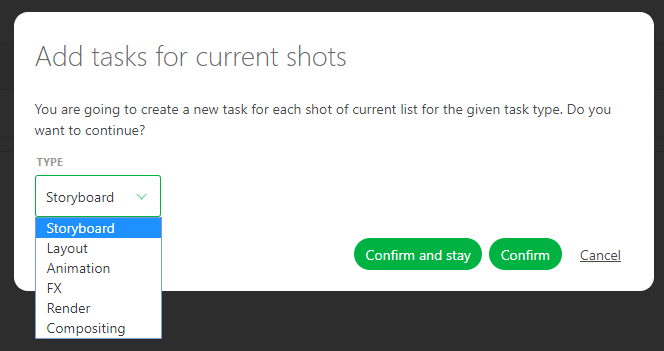
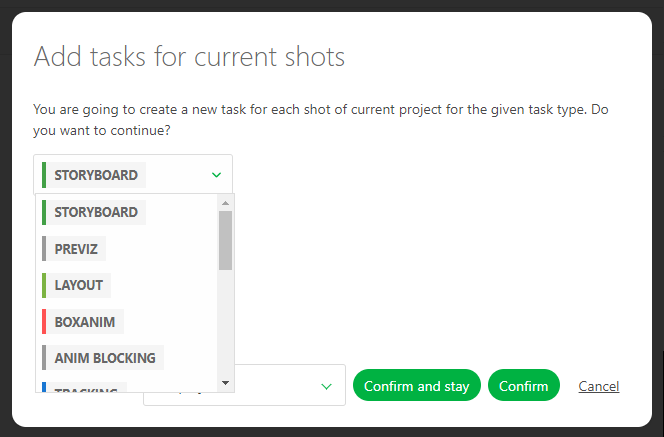
getting started task filtered

diff --git a/docs/getting-started-production/README.md b/docs/getting-started-production/README.md
@@ -185,9 +185,10 @@ You can check and adjust the name of the columns with the preview of your data.
 
 NB: the **Episode** column is only mandatory for a **TV Show** production. 
  
-![Import data copy paste data](../img/getting-started/import_preview_data.png)
+You need to switch on the option **Update existing data**. Then the lines that will be updated
+will be highlighted in blue.
 
-Once everything is good, click on the **Confirm** button, to import your data into Kitsu.
+![Import data copy paste data](../img/getting-started/import_update_asset.png)
 
 Now, you have all your assets imported into Kitsu.
 
@@ -241,18 +242,6 @@ If at some point you need to delete a shot, click on the **trash can**
 icon on the right of the line ![Delete button](../img/getting-started/delete_button.png). 
 If you need to import back this shot, click on the restore button 
 ![Restore button](../img/getting-started/restore_button.png).
-
-We can now associate tasks with the shots. Same way than for the assets, click on
-the **+Add tasks** button ![Add task button](../img/getting-started/add_task_button.png)
-on the top of the spreadsheet. 
-
-A new pop-up opens and lets you choose what task you want to add. All the
-shots are linked to the tasks.
-
-![List of tasks for the shots](../img/getting-started/task_shots.png)
-
-Now we can do the breakdown of the storyboard, meaning associate the assets to
-each shot. 
 
 To delete a shot see the FAQ : [How to delete a shot](../faq/README.md#how-to-delete-a-shot)
 
@@ -576,12 +565,27 @@ And now we can create tasks for the assets (3), like **Concept**, **Modeling**,
 
 
 Click on the **+ Add tasks** (3) on top of the spreadsheet. A new window will
-open and on the list under **Type** you can choose the task you need to add,
-validate it by **Confirm** button.
+open and on the list under **Type** you can choose the task you need to add.
+You can also choose if you want to create tasks for **the project**, validate it by **Confirm** button.
 
 ![Add task to an asset](../img/getting-started/add_task.png)
 
-You added tasks to all the assets.
+You can choose to create tasks only for filtered elements. For exemple you want to create 
+**Rigg** tasks only for the characters.
+
+You need to type **Characters** on the search bar on the asset global page.
+
+![Characters filtered](../img/getting-started/chara_filtered.png)
+
+Then click on **+ Add tasks**. Select the task type, here **Rigging**, and switch to **For current list and filters**.
+
+Valid with **Confirm**.
+
+![Tasks filtered](../img/getting-started/task_filtered.png)
+
+If you remove the filter characters, you will see the tasks only created for the selected elements.
+
+![Tasks filtered Created](../img/getting-started/add_task_filtered.png)
 
 
 If you want to delete a task, If some assets don't match the task (as environment and setup), click on the menu to change the action (1), 
@@ -591,6 +595,18 @@ of the page.
 
 Now that we have created all the assets and related tasks, we can now add the
 artists to the team and assign tasks to them.
+
+## Create tasks for the shots
+
+We can now associate tasks with the shots. Same way than for the assets, click on
+the **+Add tasks** button ![Add task button](../img/getting-started/add_task_button.png)
+on the top of the spreadsheet. 
+
+A new pop-up opens and lets you choose what task you want to add. All the
+shots are linked to the tasks if you select **For project** option.
+
+![List of tasks for the shots](../img/getting-started/task_shots.png)
+
 
 
 ## Add a new employee
